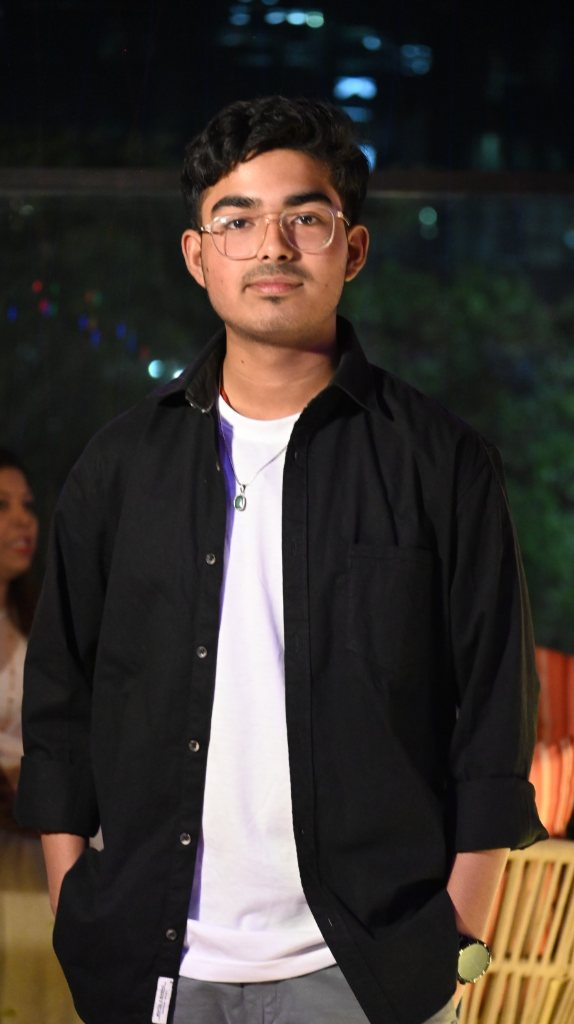
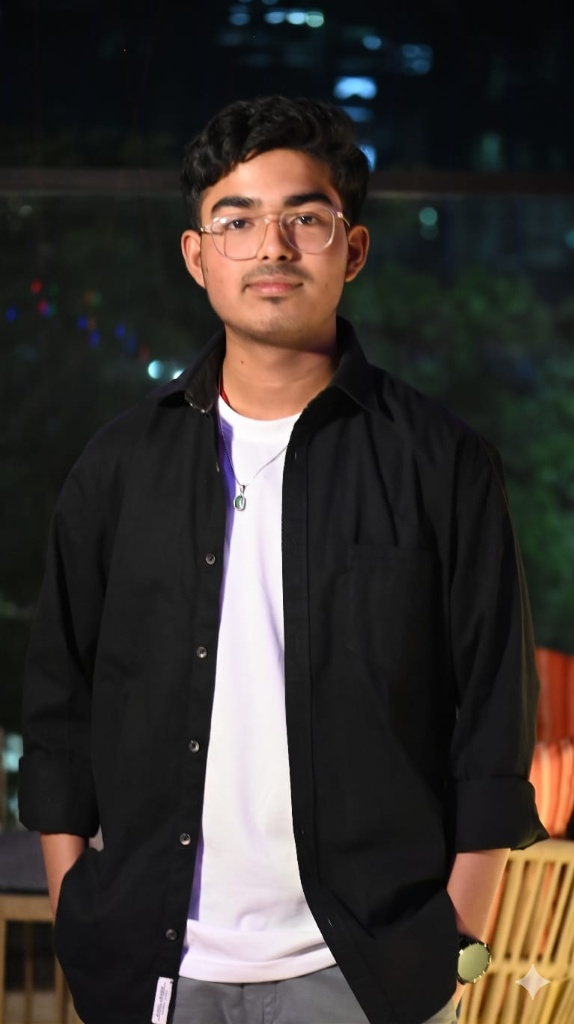
feat: update portfolio portrait image with new photo

diff --git a/index.html b/index.html
@@ -91,7 +91,7 @@
 
       <div class="hero-content">
         <div class="hero-portrait-badge">
-          <img src="assets/eklavya.jpg" alt="Eklavya Srivastava" class="hero-mini-avatar" width="28" height="28" />
+          <img src="assets/eklavya.jpg?v=2" alt="Eklavya Srivastava" class="hero-mini-avatar" width="28" height="28" />
           <span class="hero-badge-text">VIT Vellore · B.Tech CS + AI/ML (2026 – 2030)</span>
           <span class="hero-dot" aria-hidden="true"></span>
         </div>
@@ -180,7 +180,7 @@
                       <span>SYS.ACTIVE // VIT VELLORE '30</span>
                     </div>
                   </div>
-                  <img src="assets/eklavya.jpg" alt="Eklavya Srivastava" class="about-portrait-img" width="340" height="380" fetchpriority="high" />
+                  <img src="assets/eklavya.jpg?v=2" alt="Eklavya Srivastava" class="about-portrait-img" width="340" height="380" fetchpriority="high" />
                 </div>
                 <div class="about-portrait-meta">
                   <h3 class="about-name">Eklavya Srivastava</h3>
